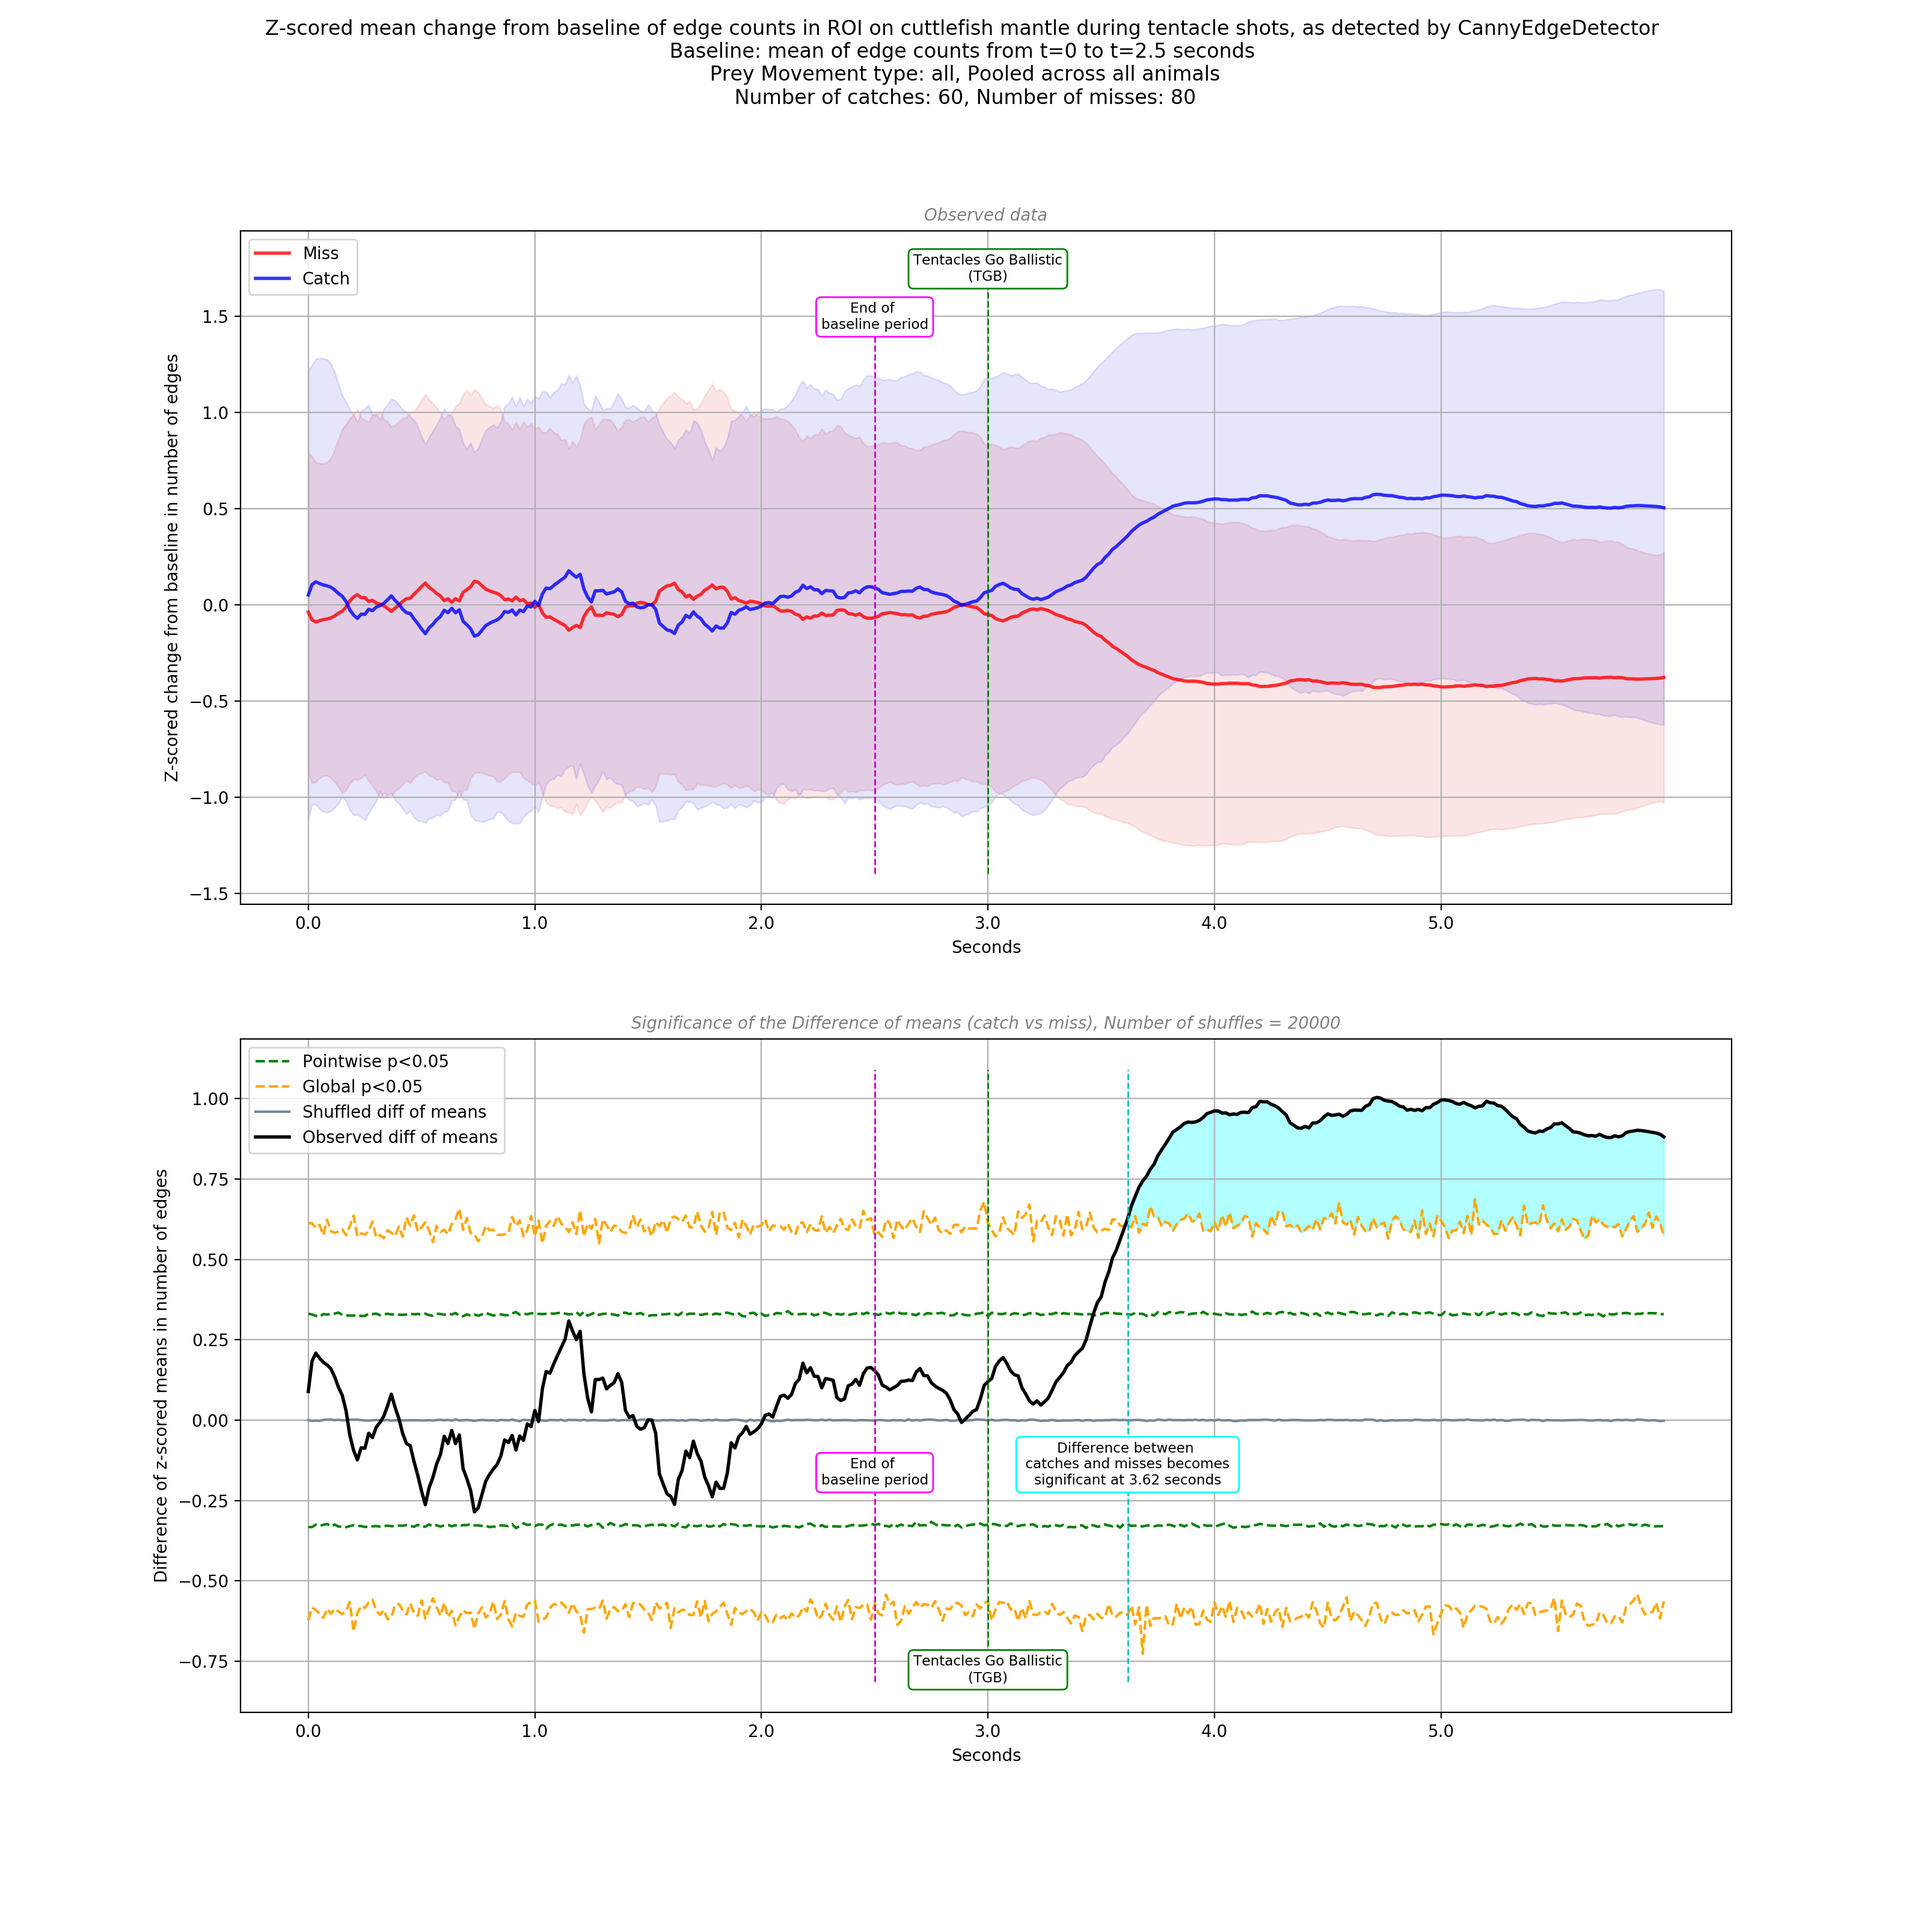
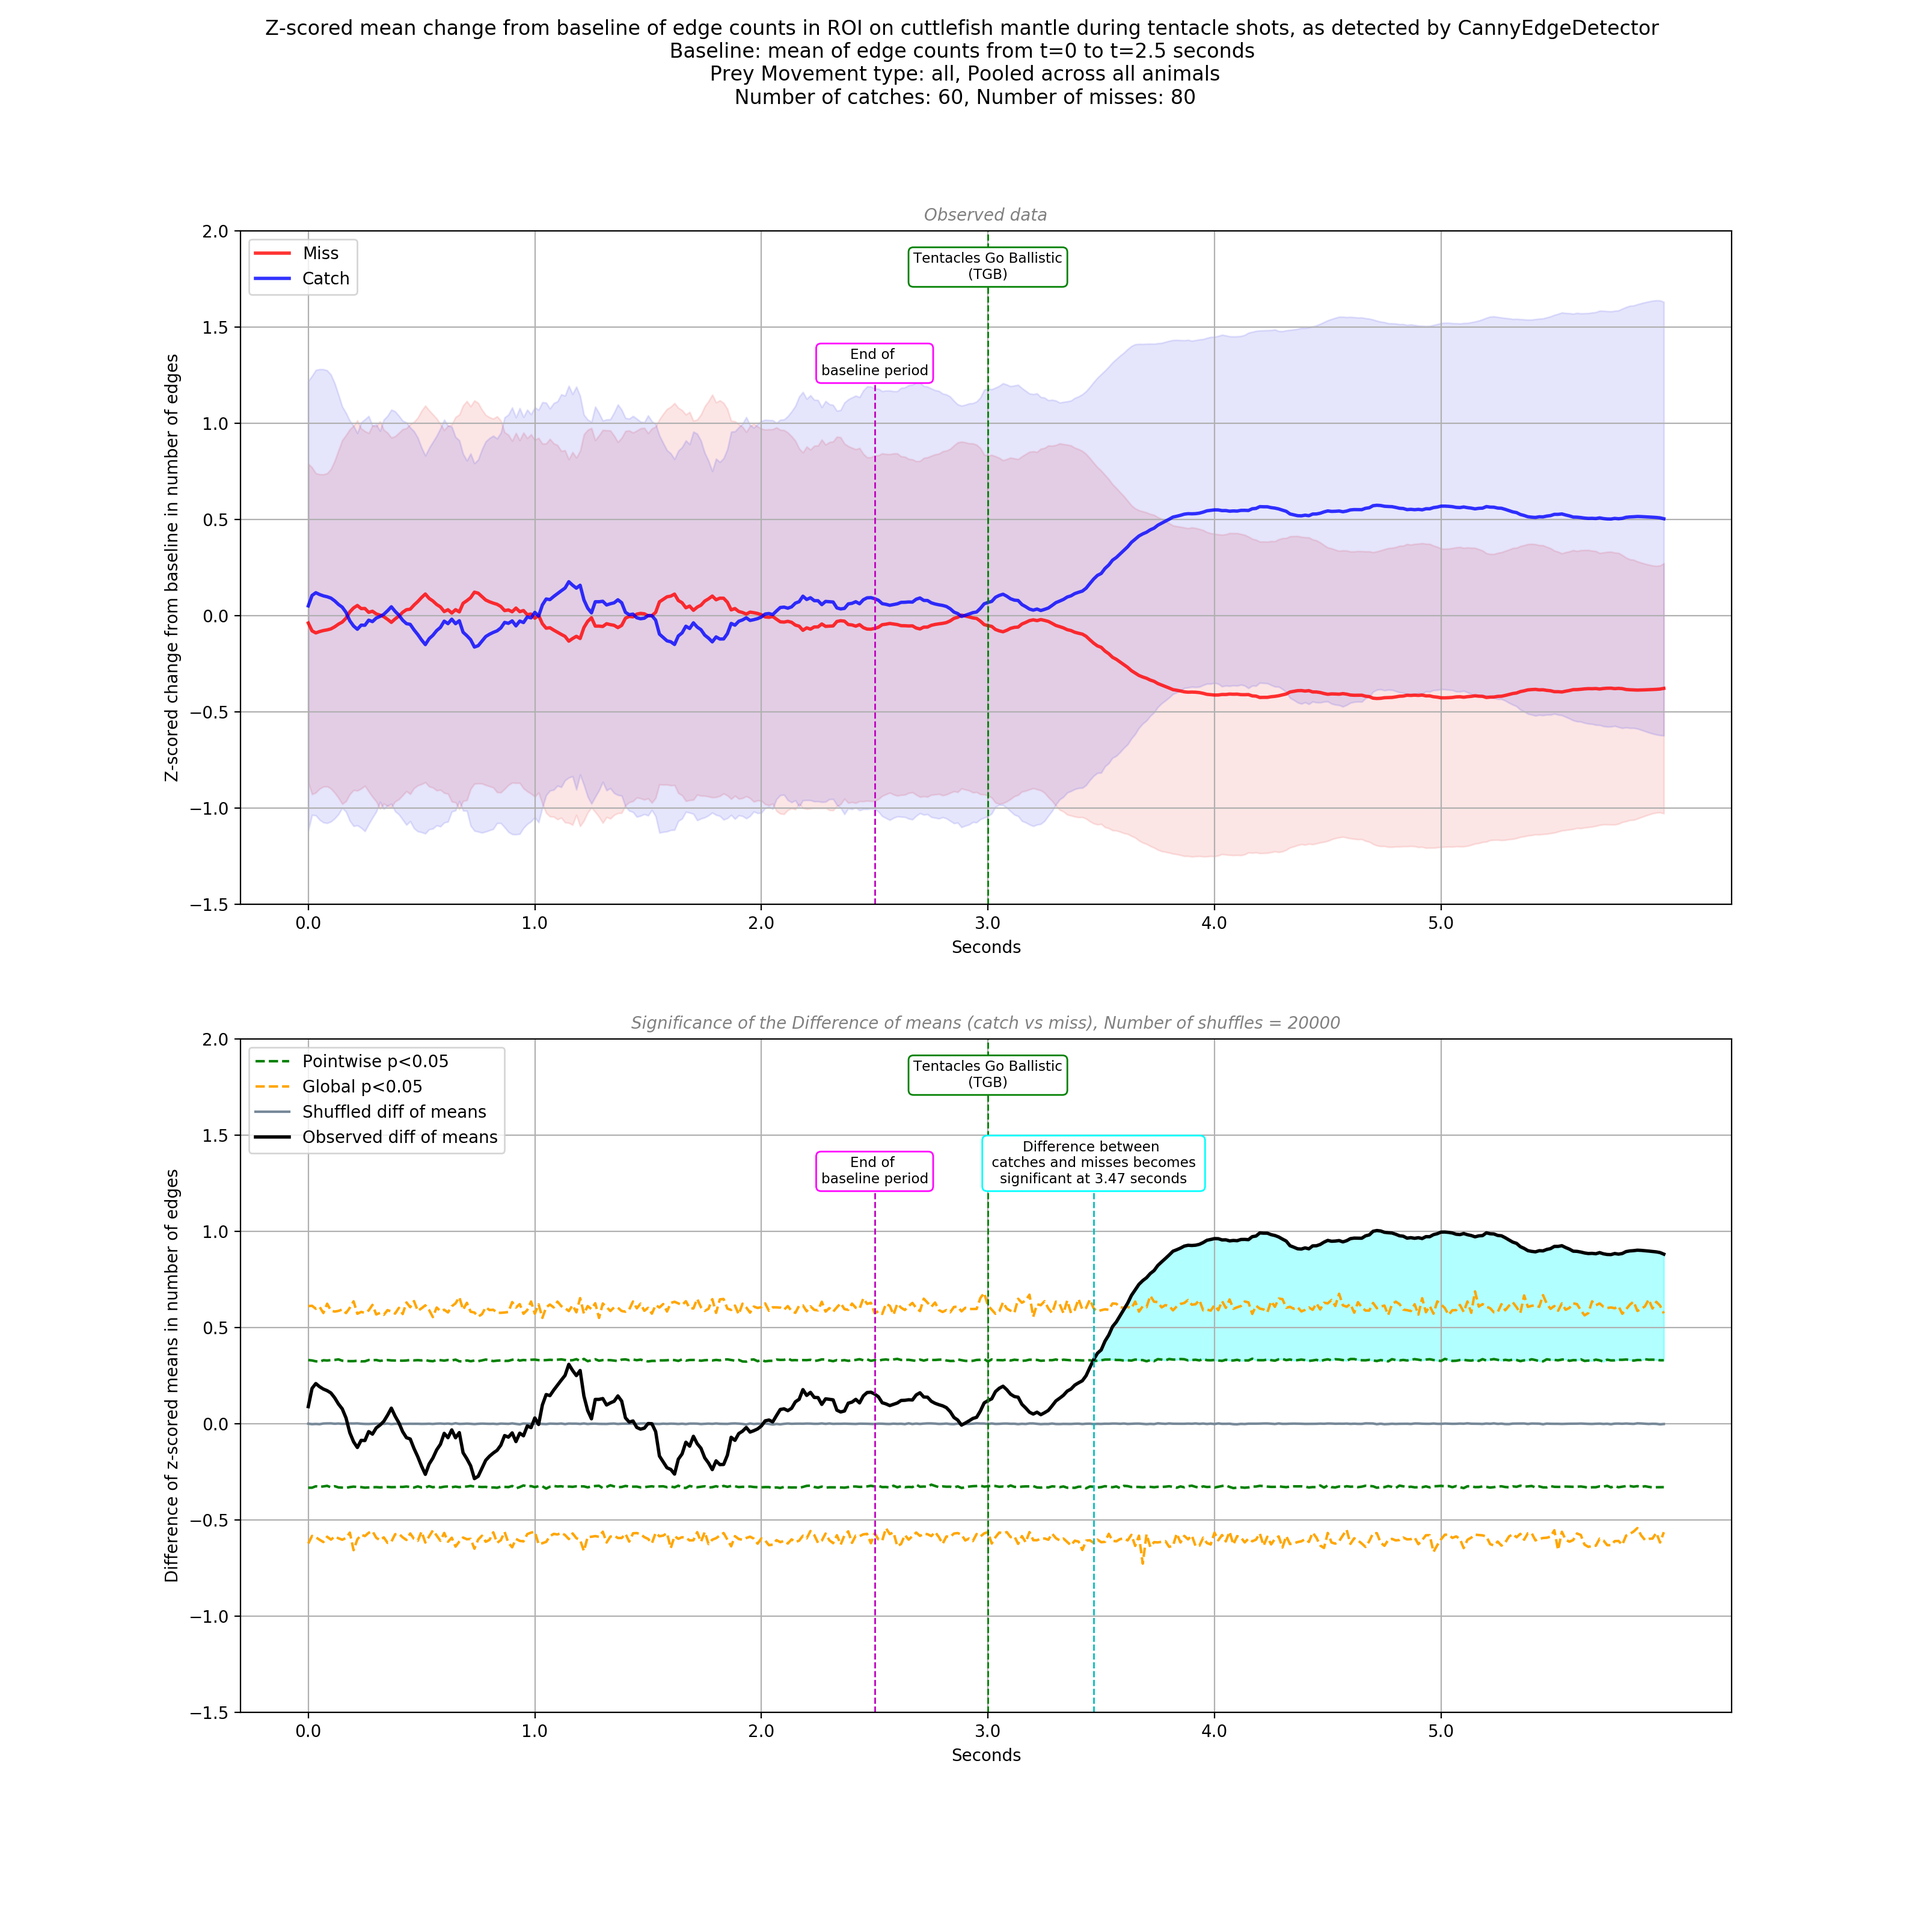
working on making daily session zscores

diff --git a/Workflows/Analyse_CannyCounts.py b/Workflows/Analyse_CannyCounts.py
@@ -283,7 +283,7 @@ def find_bounds_for_sig(shuffle_test_results_dict, UpBound, LowBound):
         lowerbound.append(np.percentile(shuffle_test_results_dict[timebin]['SPerf'], LowBound))
     return upperbound, lowerbound
 
-def plot_allA_Zscored_ShuffledDiffMeans(analysis_type_str, preprocess_str, metric_str, prey_type_str, catches_dict, misses_dict, sigUB, sigLB, sigUB_corrected, sigLB_corrected, ObservedDiff, shuffDiff, firstSigTB, TGB_bucket, baseline_len, plots_dir, todays_dt): 
+def plot_allA_Zscored_ShuffledDiffMeans(analysis_type_str, preprocess_str, metric_str, prey_type_str, catches_dict, misses_dict, sigUB, sigLB, sigUB_corrected, sigLB_corrected, shuffDiff, firstSigTB, TGB_bucket, baseline_len, plots_dir, todays_dt): 
     img_type = ['.png', '.pdf']
     ### POOL ACROSS ANIMALS ### 
     allA_C = []
@@ -306,6 +306,7 @@ def plot_allA_Zscored_ShuffledDiffMeans(analysis_type_str, preprocess_str, metri
     allA_C_std = np.std(allA_C, axis=0, ddof=1)
     allA_M_mean = np.mean(allA_M, axis=0)
     allA_M_std = np.std(allA_M, axis=0, ddof=1)
+    ObservedDiff = allA_C_mean - allA_M_mean
     # set fig path and title
     figure_name = analysis_type_str +'_'+ preprocess_str +'_'+ prey_type_str + 'Trials_AllAnimals_' + todays_dt + img_type[0]
     figure_path = os.path.join(plots_dir, figure_name)
@@ -319,7 +320,7 @@ def plot_allA_Zscored_ShuffledDiffMeans(analysis_type_str, preprocess_str, metri
     plt.ylabel("Z-scored change from baseline in number of edges")
     plot_xticks = np.arange(0, len(allA_C_mean), step=60)
     plt.xticks(plot_xticks, ['%.1f'%(x/60) for x in plot_xticks])
-    #plt.ylim(-1500000,4000000)
+    plt.ylim(-1.5,2.0)
     #plt.xlim(0,180)
     plt.xlabel("Seconds")
     plt.grid(b=True, which='major', linestyle='-')
@@ -344,17 +345,17 @@ def plot_allA_Zscored_ShuffledDiffMeans(analysis_type_str, preprocess_str, metri
     plt.fill_between(x_tbs, UpperBound_C, LowerBound_C, color=color_stdC)
     # label events
     ymin, ymax = plt.ylim()
-    plt.plot((baseline_len, baseline_len), (ymin, ymax-0.3), 'm--', linewidth=1)
-    plt.text(baseline_len, ymax-0.35, "End of \nbaseline period", fontsize='small', ha='center', bbox=dict(facecolor='white', edgecolor='magenta', boxstyle='round,pad=0.35'))
+    plt.plot((baseline_len, baseline_len), (ymin, ymax-0.75), 'm--', linewidth=1)
+    plt.text(baseline_len, ymax-0.75, "End of \nbaseline period", fontsize='small', ha='center', bbox=dict(facecolor='white', edgecolor='magenta', boxstyle='round,pad=0.35'))
     plt.plot((TGB_bucket, TGB_bucket), (ymin, ymax), 'g--', linewidth=1)
-    plt.text(TGB_bucket, ymax-0.1, "Tentacles Go Ballistic\n(TGB)", fontsize='small', ha='center', bbox=dict(facecolor='white', edgecolor='green', boxstyle='round,pad=0.35'))
+    plt.text(TGB_bucket, ymax-0.25, "Tentacles Go Ballistic\n(TGB)", fontsize='small', ha='center', bbox=dict(facecolor='white', edgecolor='green', boxstyle='round,pad=0.35'))
     plt.legend(loc='upper left')
     #subplot: difference of observed means vs shuffled diff of means
     plt.subplot(2,1,2)
     plt.title('Significance of the Difference of means (catch vs miss), Number of shuffles = 20000', fontsize=10, color='grey', style='italic')
     plt.ylabel("Difference of z-scored means in number of edges")
     plt.xticks(plot_xticks, ['%.1f'%(x/60) for x in plot_xticks])
-    #plt.ylim(-1500000,4000000)
+    plt.ylim(-1.5,2.0)
     #plt.xlim(0,180)
     plt.xlabel("Seconds")
     plt.grid(b=True, which='major', linestyle='-')
@@ -370,15 +371,15 @@ def plot_allA_Zscored_ShuffledDiffMeans(analysis_type_str, preprocess_str, metri
     plt.plot(ObservedDiff, linewidth=2, linestyle='-', color=color_obsDiffMeans, label='Observed diff of means')
     # plot significant time bins as shaded region
     sig_x = range(firstSigTB, 360)
-    plt.fill_between(sig_x, ObservedDiff[firstSigTB:], sigUB_corrected[firstSigTB:], color='cyan', alpha=0.3)
+    plt.fill_between(sig_x, ObservedDiff[firstSigTB:], sigUB[firstSigTB:], color='cyan', alpha=0.3)
     # label events
     ymin, ymax = plt.ylim()
-    plt.plot((baseline_len, baseline_len), (ymin, ymax), 'm--', linewidth=1)
-    plt.text(baseline_len, -0.2, "End of \nbaseline period", fontsize='small', ha='center', bbox=dict(facecolor='white', edgecolor='magenta', boxstyle='round,pad=0.35'))
+    plt.plot((baseline_len, baseline_len), (ymin, ymax-0.75), 'm--', linewidth=1)
+    plt.text(baseline_len, ymax-0.75, "End of \nbaseline period", fontsize='small', ha='center', bbox=dict(facecolor='white', edgecolor='magenta', boxstyle='round,pad=0.35'))
     plt.plot((TGB_bucket, TGB_bucket), (ymin, ymax), 'g--', linewidth=1)
-    plt.text(TGB_bucket, ymin, "Tentacles Go Ballistic\n(TGB)", fontsize='small', ha='center', bbox=dict(facecolor='white', edgecolor='green', boxstyle='round,pad=0.35'))
-    plt.plot((firstSigTB, firstSigTB), (ymin, ymax), 'c--', linewidth=1)
-    plt.text(firstSigTB, -0.2, "Difference between \n catches and misses becomes \nsignificant at {s:.2f} seconds".format(s=firstSigTB/60), fontsize='small', ha='center', bbox=dict(facecolor='white', edgecolor='cyan', boxstyle='round,pad=0.35'))
+    plt.text(TGB_bucket, ymax-0.25, "Tentacles Go Ballistic\n(TGB)", fontsize='small', ha='center', bbox=dict(facecolor='white', edgecolor='green', boxstyle='round,pad=0.35'))
+    plt.plot((firstSigTB, firstSigTB), (ymin, ymax-0.75), 'c--', linewidth=1)
+    plt.text(firstSigTB, ymax-0.75, "Difference between \n catches and misses becomes \nsignificant at {s:.2f} seconds".format(s=firstSigTB/60), fontsize='small', ha='center', bbox=dict(facecolor='white', edgecolor='cyan', boxstyle='round,pad=0.35'))
     plt.legend(loc='upper left')
     # save and show fig
     plt.savefig(figure_path)
@@ -408,9 +409,11 @@ TGB_all = glob.glob(canny_counts_folder + os.sep + "*.csv")
 TGB_natural = []
 TGB_patterned = []
 TGB_causal = []
+TGB_daily = {}
 for TGB_file in TGB_all: 
     csv_name = TGB_file.split(os.sep)[-1]
     trial_date = csv_name.split('_')[2]
+    sorted_by_session = TGB_daily.setdefault(trial_date,[]).append(TGB_file)
     trial_datetime = datetime.datetime.strptime(trial_date, '%Y-%m-%d')
     if trial_datetime < datetime.datetime(2014, 9, 13, 0, 0):
         TGB_natural.append(TGB_file)
@@ -420,6 +423,13 @@ for TGB_file in TGB_all:
         TGB_patterned.append(TGB_file)
 
 # organize canny count data
+# categorize daily sessions by animal
+all_TS_daily = {}
+all_catches_daily = {}
+all_misses_daily = {}
+for session_date in TGB_daily:
+    all_TS_daily[session_date] = categorize_by_animal(TGB_daily[session_date])
+    all_catches_daily[session_date], all_misses_daily[session_date] = categorize_by_animal_catchVmiss(TGB_daily[session_date])
 # collect all canny counts and categorize by animal
 all_TS = categorize_by_animal(TGB_all)
 # collect all canny counts and categorize by animal and type (catch vs miss)
@@ -435,15 +445,29 @@ TGB_bucket_raw = 180
 
 # BASELINE SUBTRACTION 
 baseline_buckets = 150
-# sav-gol filter and baseline subtract
+# sav-gol filter and baseline subtract, all TS
 savgol_window = 15
+dailyTS_filtBaseSub = {}
+for session_date in all_TS_daily:
+    dailyTS_filtBaseSub[session_date] = filtered_basesub_count(all_TS_daily[session_date], 'all', baseline_buckets, savgol_window)
 allTS_filtBaseSub = filtered_basesub_count(all_TS, 'all', baseline_buckets, savgol_window)
+# sav-gol filter and baseline subtract, catches versus misses
+dailyCatches_filtBaseSub = {}
+dailyMisses_filtBaseSub = {}
+for session_date in all_catches_daily:
+    dailyCatches_filtBaseSub[session_date] = filtered_basesub_count(all_catches_daily[session_date], 'all', baseline_buckets, savgol_window)
+for session_date in all_misses_daily:
+    dailyMisses_filtBaseSub[session_date] = filtered_basesub_count(all_misses_daily[session_date], 'all', baseline_buckets, savgol_window)
 allCatches_filtBaseSub = filtered_basesub_count(all_catches, 'all', baseline_buckets, savgol_window)
 allMisses_filtBaseSub = filtered_basesub_count(all_misses, 'all', baseline_buckets, savgol_window)
 # zscore each animal so that I can pool all trials into a "superanimal"
 allTS_filtBaseSub_Zscored = zScored_count(allTS_filtBaseSub, allTS_filtBaseSub)
 allCatches_filtBaseSub_Zscored = zScored_count(allCatches_filtBaseSub, allTS_filtBaseSub)
 allMisses_filtBaseSub_Zscored = zScored_count(allMisses_filtBaseSub, allTS_filtBaseSub)
+# zscore daily sessions for each animal to characterize session dynamics
+dailyTS_filtBaseSub_Zscored = {}
+for session_date in dailyTS_filtBaseSub:
+    dailyTS_filtBaseSub_Zscored[session_date] = zScored_count(dailyTS_filtBaseSub[session_date], dailyTS_filtBaseSub[session_date])
 
 #######################################################
 ### ------------ PLOT THE ZSCORED DATA ------------ ###
@@ -451,6 +475,8 @@ allMisses_filtBaseSub_Zscored = zScored_count(allMisses_filtBaseSub, allTS_filtB
 
 ## individual animals
 plot_indiv_animals('CannyEdgeDetector', 'Zscored_SavGol_BaseSub', 'edge counts', 'all', allCatches_filtBaseSub_Zscored, allMisses_filtBaseSub_Zscored, TGB_bucket_raw, baseline_buckets, plots_folder, todays_datetime)
+for session_date in dailyTS_filtBaseSub:
+    plot_indiv_animals('CannyEdgeDetector', 'Daily_Zscored_SavGol_BaseSub', 'edge counts', 'all', allCatches_filtBaseSub_Zscored, allMisses_filtBaseSub_Zscored, TGB_bucket_raw, baseline_buckets, plots_folder, todays_datetime)
 
 ########################################################
 ### -------- SHUFFLE TESTS FOR SIGNIFICANCE -------- ###
@@ -571,7 +597,7 @@ N_violations_UBcorrected, N_violations_LBcorrected = check_violations_sigBounds(
 
 # find where observed data crosses corrected bounds for first time
 for tb in range(len(Observed_DiffMeans)):
-    if Observed_DiffMeans[tb]>global005sig_UB[tb]:
+    if Observed_DiffMeans[tb]>pw005sig_UB[tb]:
         firstTB_P005sig = tb
         break
 
@@ -591,6 +617,15 @@ plt.show()
 #######################################################
 
 ### POOL ACROSS ANIMALS
-plot_allA_Zscored_ShuffledDiffMeans('CannyEdgeDetector', 'Zscored_SavGol_BaseSub', 'edge counts', 'all', allCatches_filtBaseSub_Zscored, allMisses_filtBaseSub_Zscored, pw005sig_UB, pw005sig_LB, global005sig_UB, global005sig_LB, Observed_DiffMeans, shuff_DiffMeans, firstTB_P005sig, TGB_bucket_raw, baseline_buckets, plots_folder, todays_datetime)
+plot_allA_Zscored_ShuffledDiffMeans('CannyEdgeDetector', 'Zscored_SavGol_BaseSub', 'edge counts', 'all', allCatches_filtBaseSub_Zscored, allMisses_filtBaseSub_Zscored, pw005sig_UB, pw005sig_LB, global005sig_UB, global005sig_LB, shuff_DiffMeans, firstTB_P005sig, TGB_bucket_raw, baseline_buckets, plots_folder, todays_datetime)
+
+### TO DO
+# calculate the average time post-TGB when tentacles hit target and when tentacles return to mouth and add to plots
+
+#######################################################
+### ---------------- SANITY CHECKS ---------------- ###
+#######################################################
+### zscore each animal by session (day)
+
 
 ## FIN
